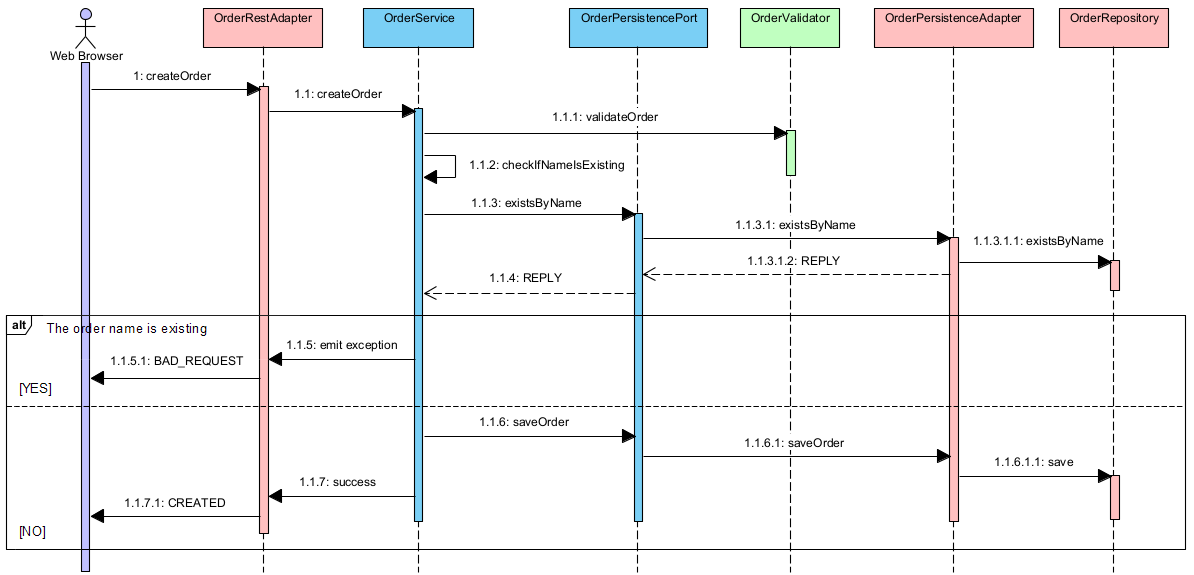
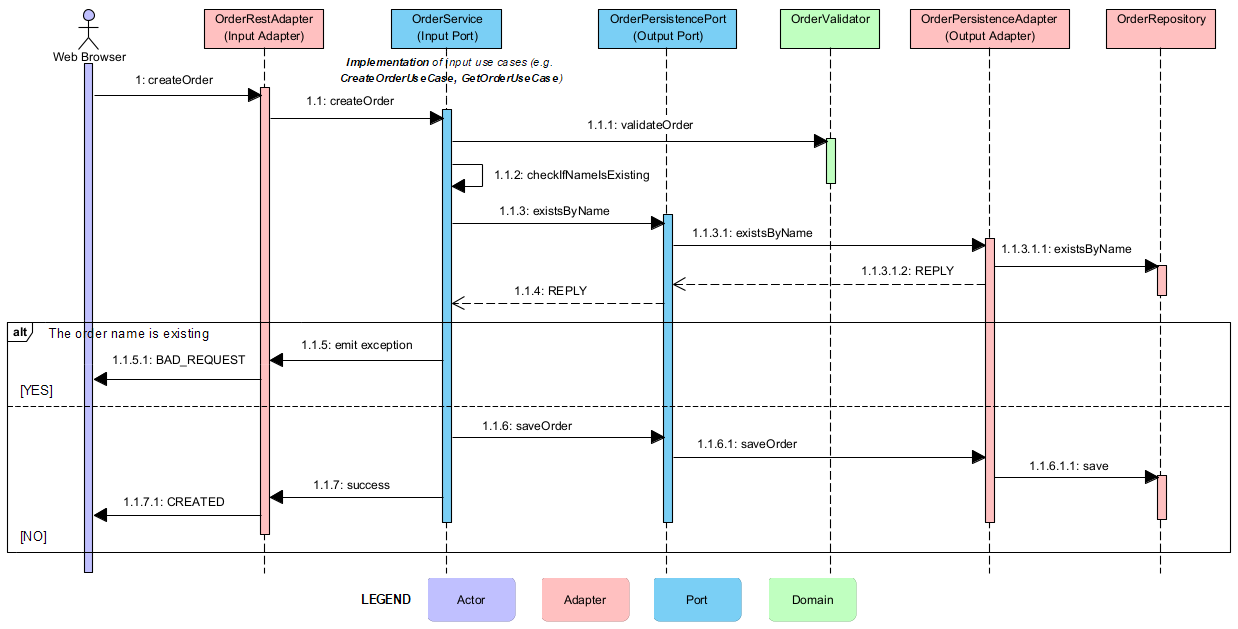
Updated README

diff --git a/src/main/java/com/seedotech/dddhexagonalarchitecture/application/service/OrderService.java b/src/main/java/com/seedotech/dddhexagonalarchitecture/application/service/OrderService.java
@@ -20,12 +20,15 @@ public class OrderService implements CreateOrderUseCase, GetOrderUseCase {
 
     @Override
     public Order createOrder(Order order) throws Exception {
-        // Validate order
+        // Validate order constraints/rules
         OrderValidator.validateOrder(order);
-        // Check the order logic
+        // Check the application-specific business rules of the order
         checkIfNameIsExisting(order.getName());
+        // Save the order to the database
         order = orderPersistencePort.saveOrder(order);
+        // Publish the order created event
         orderEventPublisherPort.publishOrderCreatedEvent(new OrderCreatedEvent(order.getId()));
+        // Return the order with all information (e.g. includes the generated id)
         return order;
     }
 

diff --git a/src/main/java/com/seedotech/dddhexagonalarchitecture/domain/validation/OrderValidator.java b/src/main/java/com/seedotech/dddhexagonalarchitecture/domain/validation/OrderValidator.java
@@ -3,6 +3,9 @@ package com.seedotech.dddhexagonalarchitecture.domain.validation;
 import com.seedotech.dddhexagonalarchitecture.common.Common;
 import com.seedotech.dddhexagonalarchitecture.domain.model.Order;
 
+/**
+ * Validates constraints/rules of the order
+ */
 public class OrderValidator {
     public static void validateOrder(final Order order) throws Exception {
         // Validate the order attributes

diff --git a/README.md b/README.md
@@ -12,13 +12,15 @@ Regarding the Microservice architecture please refer to my repository to see det
 **Hexagonal Architecture** creates dependency rules can decouple the layers. The hexagonal architecture is also called the **Ports** and **Adapters**. The outer layers may only depend on the inner layers, and the inner layers should not rely on the outer ones. Each layer is defined as follows:
 
 ### 2.1. Infrastructure Layer
-The **Infrastructure Layer** contains code interfaces with application infrastructure – controllers, UI, persistence, and gateways to external systems. A web framework or persistence library will provide many of the objects in this layer. Concretions of domain repositories are placed in this layer, while the virtual interfaces are defined in the domain layer
+The **Infrastructure Layer** contains code interfaces with application infrastructure – controllers, UI, presenters, persistence, and gateways through the **input/output adapters** to external systems
 
 ### 2.2. Application Layer
-The **Application Layer** provides an API for all functionality provided by the application. It accepts commands from the client (web, API, or CLI) and translates them into values understood by the domain layer. For example, a RegisterUser service would accept a Data Transfer Object containing a new user's credentials and delegate responsibility for creating a user to the domain layer
+The **Application Layer** provides an API for all **functionality/use cases** provided by the application. It contains **input/output ports**, **application-specific business rules** and **decision making**. It accepts commands from the client (web, API, or CLI) and translates them into values understood by the domain layer. For example, a RegisterUser service would accept a Data Transfer Object containing a new user's credentials and delegate responsibility for creating a user to the domain layer
 
 ### 2.3. Domain Layer
-The **Domain Layer** contains any **domain model**, **business logic**. It deals entirely with **domain concepts** and **lacks knowledge of the outer layers**
+The **Domain Layer** contains any **domain model**, **domain constraints/rules**. It deals entirely with **domain concepts** and **lacks knowledge of the outer layers**
+
+### The application layer has incoming ports (use cases) that are called from incoming adapters, implemented by services, that use outcoming ports that are implemented by outgoing adapters
 
 ![Hexagonal Architecture!](/assets/images/ddd_hexagonal_architecture.png "Hexagonal Architecture")
 
@@ -28,7 +30,7 @@ Each **Port** may have different **implementations** (**Adapters**)
 **Ports** *cannot be used by themselves* and in their place, an **adapter** *implementing* them should be added to the list of dependencies
 
 **Adapter**
-They are implementations of a functionality (**Port**) for a given **product/technology/use case**. Clients should only use **ports**' code (*not* **Adapters** *specific code*), *this makes them easy to switch among different adapters with minimum impact*
+They are **implementations of a functionality/use cases** (**Port**) for a given **product/technology/use case**. Clients should only use **ports**' code (*not* **Adapters** *specific code*), *this makes them easy to switch among different adapters with minimum impact*
 **Adapters** are independent of each other, and you can use **several adapters** for the **same port** in a **single application**. For example, you could use many Template adapters to support several template engines
 **Adapter** names must start with their Port name
 
